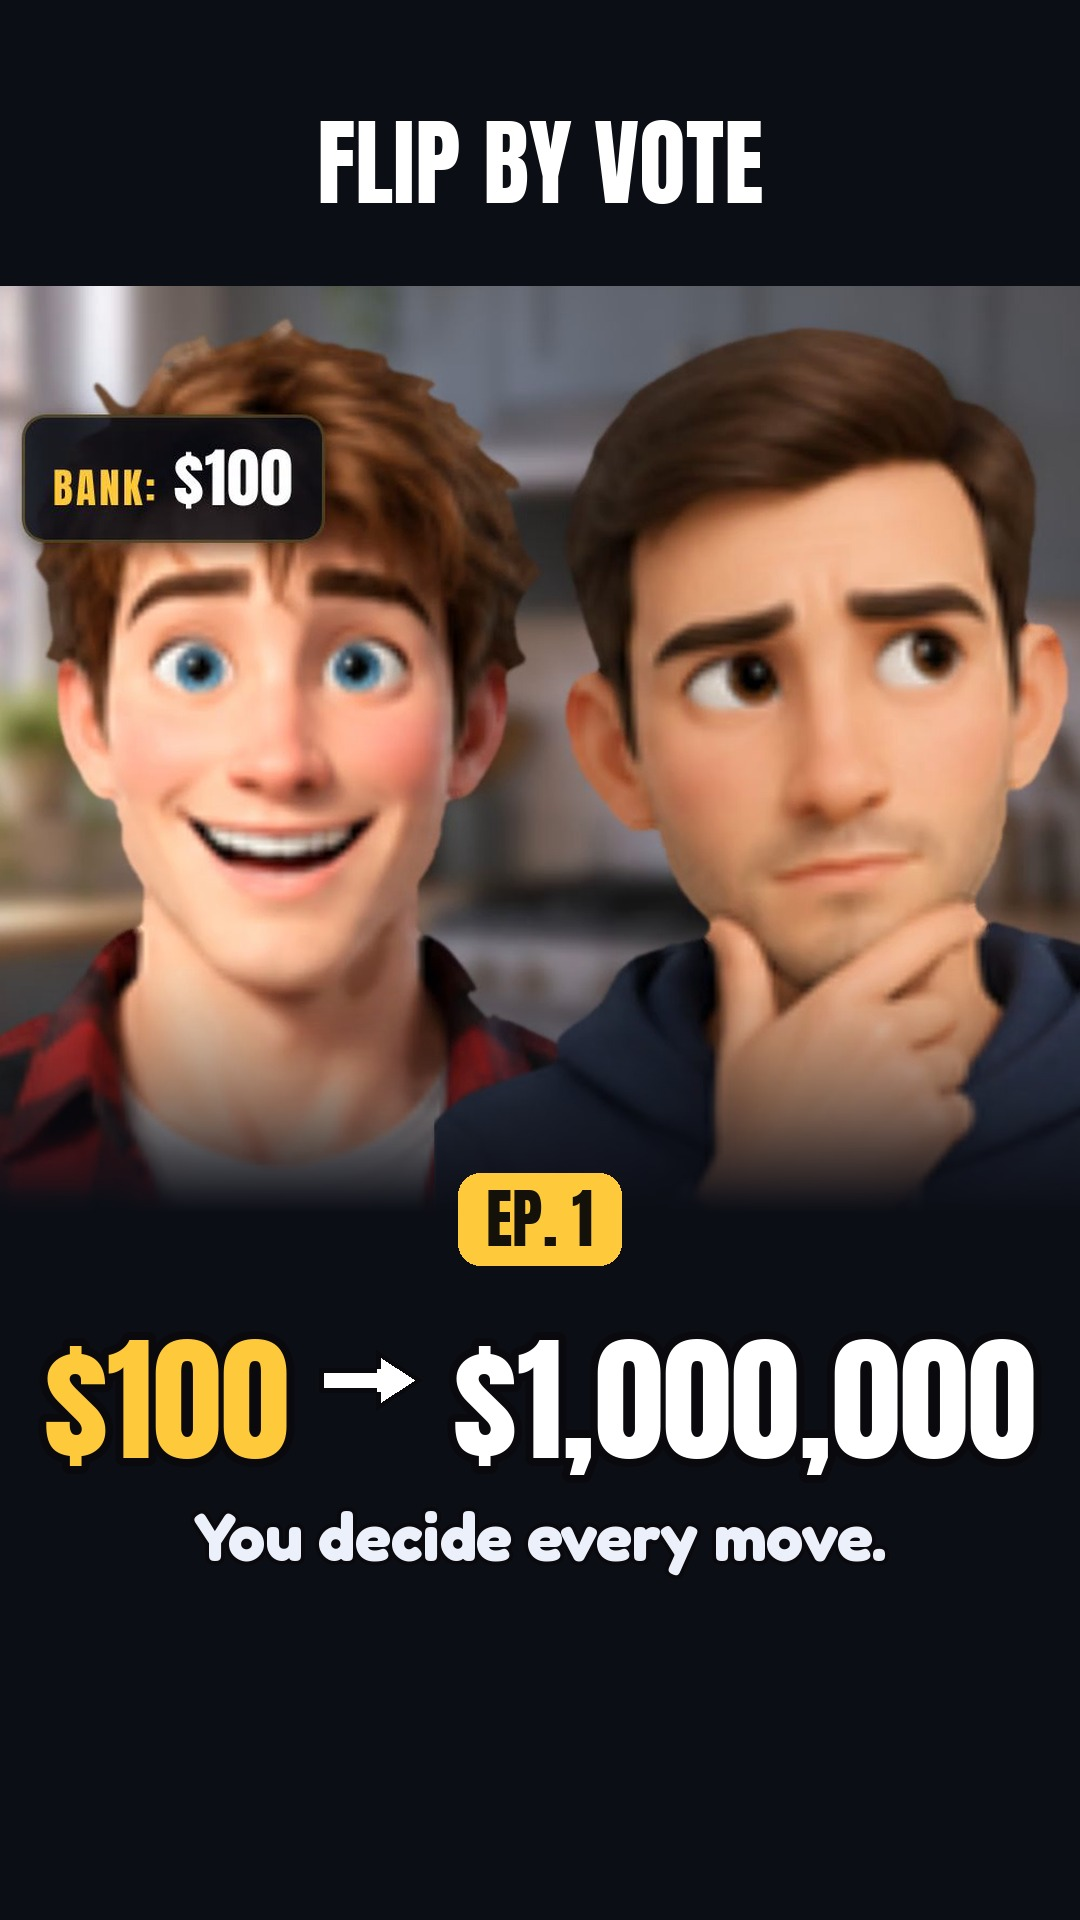
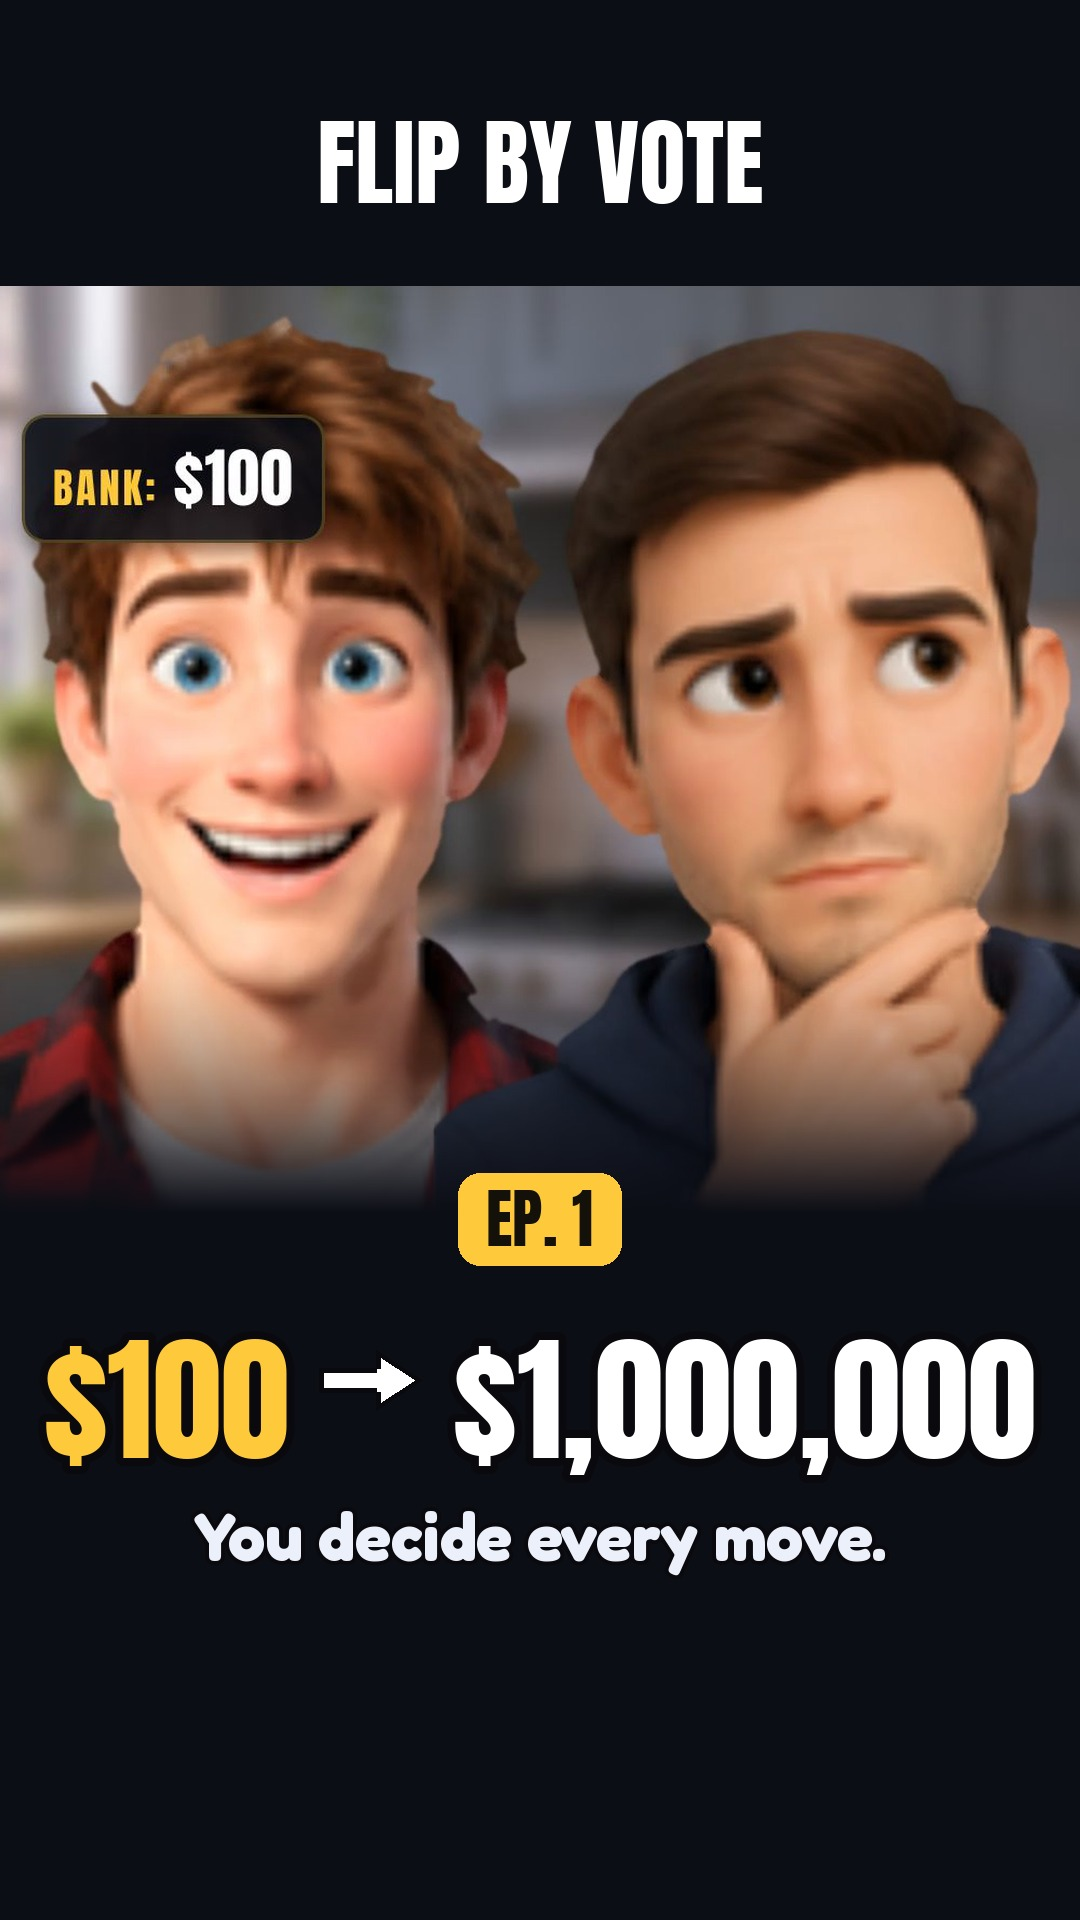
seri/bolum-001: youtube-paketleyici — Kyutai render (sha 171b2487fb09, 74,58 sn) için kapaklar 72,33 sn (kare 2170), sha/süre/kapak zamanı, dry-run 0 hata
Claude-Session: https://claude.ai/code/session_019bCNGEBBQaepmiQNuPNZwX

diff --git a/uretim/seri/bolum-001/paket/paket-uret.py b/uretim/seri/bolum-001/paket/paket-uret.py
@@ -31,8 +31,8 @@ IG_ACIKLAMA = "\n".join([
     "Bike, dresser, or mystery box? You pick our first flip.",
     "Jake & Mike have $100 and one goal: $1,000,000. Every episode, the comments decide the next move.",
     SORU, "", ANONIM, "", POLITIKA, SES_ATIF, "", "#flipbyvote #animatedseries #sidehustle #flipping #youdecide"])
-IG_KAPAK_SN = 81.0  # kare 2430 (koordinatör kapak kararı); yüklenen kapak bu kareden; uygulamada kare seçilirse 1:21
-VIDEO_SHA12, VIDEO_SURE = "6d01844629ec", 83.2  # tur 3 render 2026-11-11 — Kyutai sesli render gelince güncellenecek
+IG_KAPAK_SN = 72.333  # kare 2170 (animasyon-yonetmeni önerisi, Kyutai render); yüklenen kapak bu kareden; uygulamada kare seçilirse 1:12
+VIDEO_SHA12, VIDEO_SURE = "171b2487fb09", 74.58  # Kyutai sesli render 2026-11-11
 YAYIN_ZAMANI = "2026-11-11T17:00:00Z"  # koordinatör yazdı (commit 92d4f4a, YouTube 0wzaf2391nU planı)
 ONAY = {"niyazi_onayi": True, "tarih": "2026-11-11"}  # koordinatör yazdı (92d4f4a); paketleyici onay vermez, yalnız korur
 IG_SABIT_YORUM = PIN_YORUM
@@ -133,11 +133,11 @@ def main():
           f"Etiketler: `{', '.join(YT_ETIKET)}` · Kategori 24 Entertainment · made for kids: No · altered/synthetic: Yes · dil en",
           f"\nSabit yorum (yayından sonra; Studio/uygulamada sabitlenir):\n```\n{PIN_YORUM}\n```",
           f"\n## Instagram Reels\nAçıklama ({len(IG_ACIKLAMA)}/2200 krk):\n```\n{IG_ACIKLAMA}\n```",
-          f"Kapak: `kapak-1080x1920.jpg` yükle (kaynak kare {IG_KAPAK_SN:.2f} sn = kare {round(IG_KAPAK_SN*30)} = 1:21; uygulamada kare seçilirse 1:21); profil ızgarası kırpımı: `kapak-1080x1350.jpg`.",
+          f"Kapak: `kapak-1080x1920.jpg` yükle (kaynak kare {IG_KAPAK_SN:.2f} sn = kare {round(IG_KAPAK_SN*30)} = 1:12; uygulamada kare seçilirse 1:12); profil ızgarası kırpımı: `kapak-1080x1350.jpg`.",
           "AI etiketi (\"AI info\"): AÇIK (politika §3).",
           f"\nSabit yorum (ilk yorum olarak yazılır ve sabitlenir):\n```\n{IG_SABIT_YORUM}\n```",
           f"\n## TikTok\nAçıklama ({len(TT_ACIKLAMA)} krk):\n```\n{TT_ACIKLAMA}\n```",
-          "Kapak: `kapak-1080x1920.jpg` (veya kare 1:21). AI-generated etiketi: AÇIK. Otomatik yorum yanıtı YOK (politika §5).", ""]
+          "Kapak: `kapak-1080x1920.jpg` (veya kare 1:12). AI-generated etiketi: AÇIK. Otomatik yorum yanıtı YOK (politika §5).", ""]
     open(os.path.join(TESLIM, "platform-metinleri.md"), "w", encoding="utf-8").write("\n".join(md))
     for x in h: print("HATA:", x)
     print(f"kapı: {len(h)} hata · YT başlık {len(YT_BASLIK)} · kanal açıklama {len(KANAL_ACIKLAMA)} · ilk 150: {KANAL_ACIKLAMA[:150]!r}")

diff --git a/uretim/seri/bolum-001/teslim/YAYIN.md b/uretim/seri/bolum-001/teslim/YAYIN.md
@@ -1,6 +1,6 @@
 # YAYIN — Flip By Vote · Bölüm 1 "Every Dollar We Have"
 
-Dosyalar (bu klasör): `bolum-001.mp4` (83,2 sn, 1080x1920, sha256 6d01844629ec) · `kapak-1080x1920.jpg` · `kapak-1080x1350.jpg` · `yayin-paketi.json` · `platform-metinleri.md` (kopyalanacak tüm metinler).
+Dosyalar (bu klasör): `bolum-001.mp4` (74,58 sn, 1080x1920, sha256 171b2487fb09) · `kapak-1080x1920.jpg` · `kapak-1080x1350.jpg` · `yayin-paketi.json` · `platform-metinleri.md` (kopyalanacak tüm metinler).
 YouTube yüklemesini biz yaparız. Instagram ve TikTok bağlanana kadar elle paylaşılır.
 
 ## Yayın saati önerisi: 12:00 ET (17:00 UTC, 20:00 Türkiye) — üç platformda aynı anda
@@ -21,7 +21,7 @@ YouTube yüklemesini biz yaparız. Instagram ve TikTok bağlanana kadar elle pay
 ## B. Bölüm 1 yayını
 3. **Bitmiş videoyu ve yayın saatini onayla.** Koordinatör pakete `onay.niyazi_onayi=true` ve `yayin_zamani`'nı yazar (ör. `2026-11-12T12:00:00-05:00`), sonra `yukle.py` ile planlı ve private yükler. Videodaki ayarlar: made for kids **Hayır** · altered/synthetic **Evet** · kategori Entertainment · dil en.
    - Planlı videoda Studio'da görünürlük ve plan alanına **dokunma**.
-   - Shorts kapağı: API ile yüklenen Short'ta kareyi YouTube seçer. Uygulamada kare seçimi açılırsa **1:21** (81,00 sn, kare 2430; alternatif 0:00, 0,10 sn)'i seç [doğrulanmadı].
+   - Shorts kapağı: API ile yüklenen Short'ta kareyi YouTube seçer. Uygulamada kare seçimi açılırsa **1:12** (72,33 sn, kare 2170)'i seç [doğrulanmadı].
 4. **Instagram Reels** (aynı saatte, elle):
    - Video: `bolum-001.mp4`
    - Açıklama: `platform-metinleri.md` → Instagram

diff --git a/uretim/seri/bolum-001/teslim/platform-metinleri.md b/uretim/seri/bolum-001/teslim/platform-metinleri.md
@@ -1,6 +1,6 @@
 # Bölüm 001 · platform metinleri (betik çıktısı: paket/paket-uret.py — elle düzenleme yok)
 
-Video: `bolum-001.mp4` · 83.2 sn · 1080x1920 · sha256 6d01844629ec
+Video: `bolum-001.mp4` · 74.58 sn · 1080x1920 · sha256 171b2487fb09
 
 ## YouTube Shorts
 Başlık (48 krk):
@@ -42,7 +42,7 @@ Voices: Kyutai Pocket TTS (CC BY 4.0); VCTK corpus (CC BY 4.0).
 
 #flipbyvote #animatedseries #sidehustle #flipping #youdecide
 ```
-Kapak: `kapak-1080x1920.jpg` yükle (kaynak kare 81.00 sn = kare 2430 = 1:21; uygulamada kare seçilirse 1:21); profil ızgarası kırpımı: `kapak-1080x1350.jpg`.
+Kapak: `kapak-1080x1920.jpg` yükle (kaynak kare 72.33 sn = kare 2170 = 1:12; uygulamada kare seçilirse 1:12); profil ızgarası kırpımı: `kapak-1080x1350.jpg`.
 AI etiketi ("AI info"): AÇIK (politika §3).
 
 Sabit yorum (ilk yorum olarak yazılır ve sabitlenir):
@@ -64,4 +64,4 @@ Voices: Kyutai Pocket TTS (CC BY 4.0); VCTK corpus (CC BY 4.0).
 
 #flipbyvote #animation #sidehustle #reselling #youdecide
 ```
-Kapak: `kapak-1080x1920.jpg` (veya kare 1:21). AI-generated etiketi: AÇIK. Otomatik yorum yanıtı YOK (politika §5).
+Kapak: `kapak-1080x1920.jpg` (veya kare 1:12). AI-generated etiketi: AÇIK. Otomatik yorum yanıtı YOK (politika §5).
